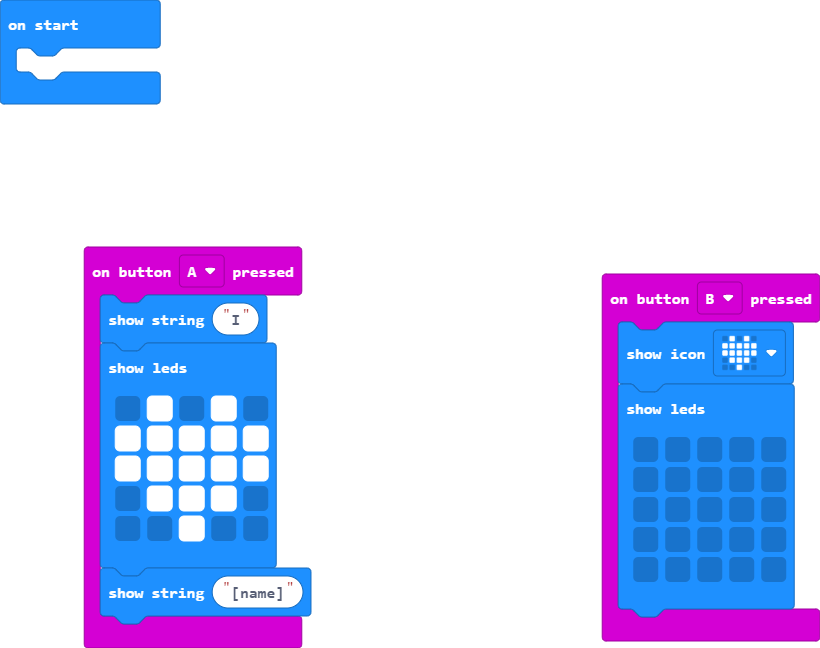
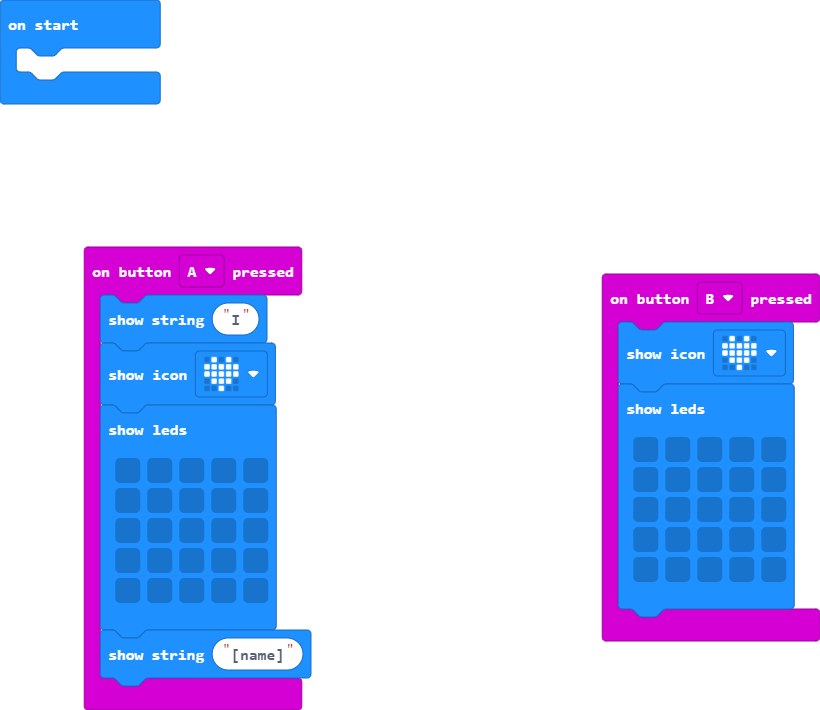
Update main.blocks, main.ts

Changed region(s): [[0.7317, 0.3704, 1.0, 1.0], [0.0915, 0.3395, 0.3963, 0.9877], [0.0, 0.0309, 0.2134, 0.1852]]

diff --git a/main.ts b/main.ts
@@ -1,11 +1,12 @@
 input.onButtonPressed(Button.A, function () {
     basic.showString("I")
+    basic.showIcon(IconNames.Heart)
     basic.showLeds(`
-        . # . # .
-        # # # # #
-        # # # # #
-        . # # # .
-        . . # . .
+        . . . . .
+        . . . . .
+        . . . . .
+        . . . . .
+        . . . . .
         `)
     basic.showString("[name]")
 })
